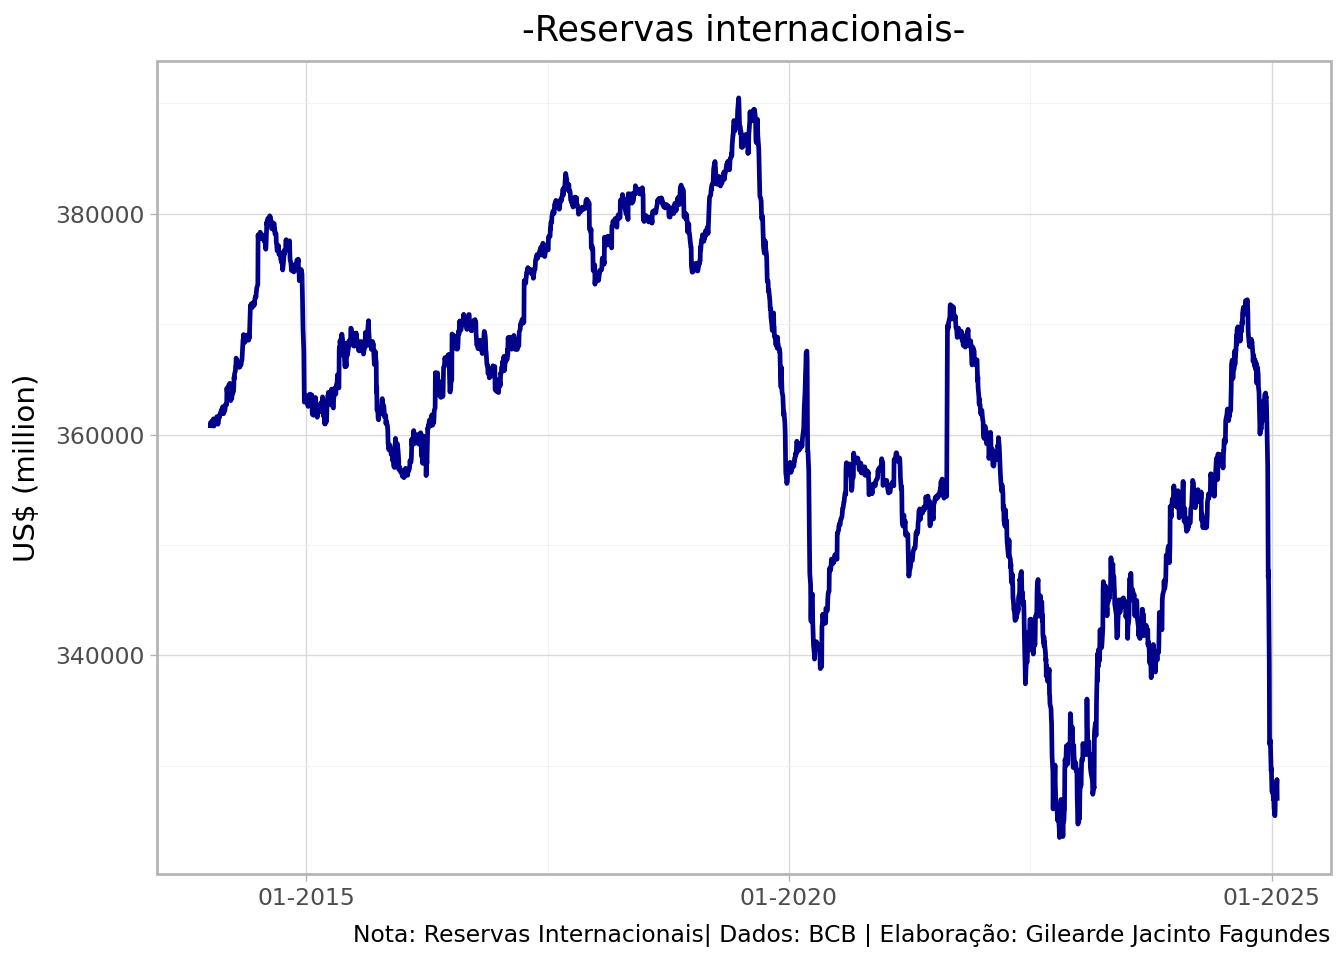
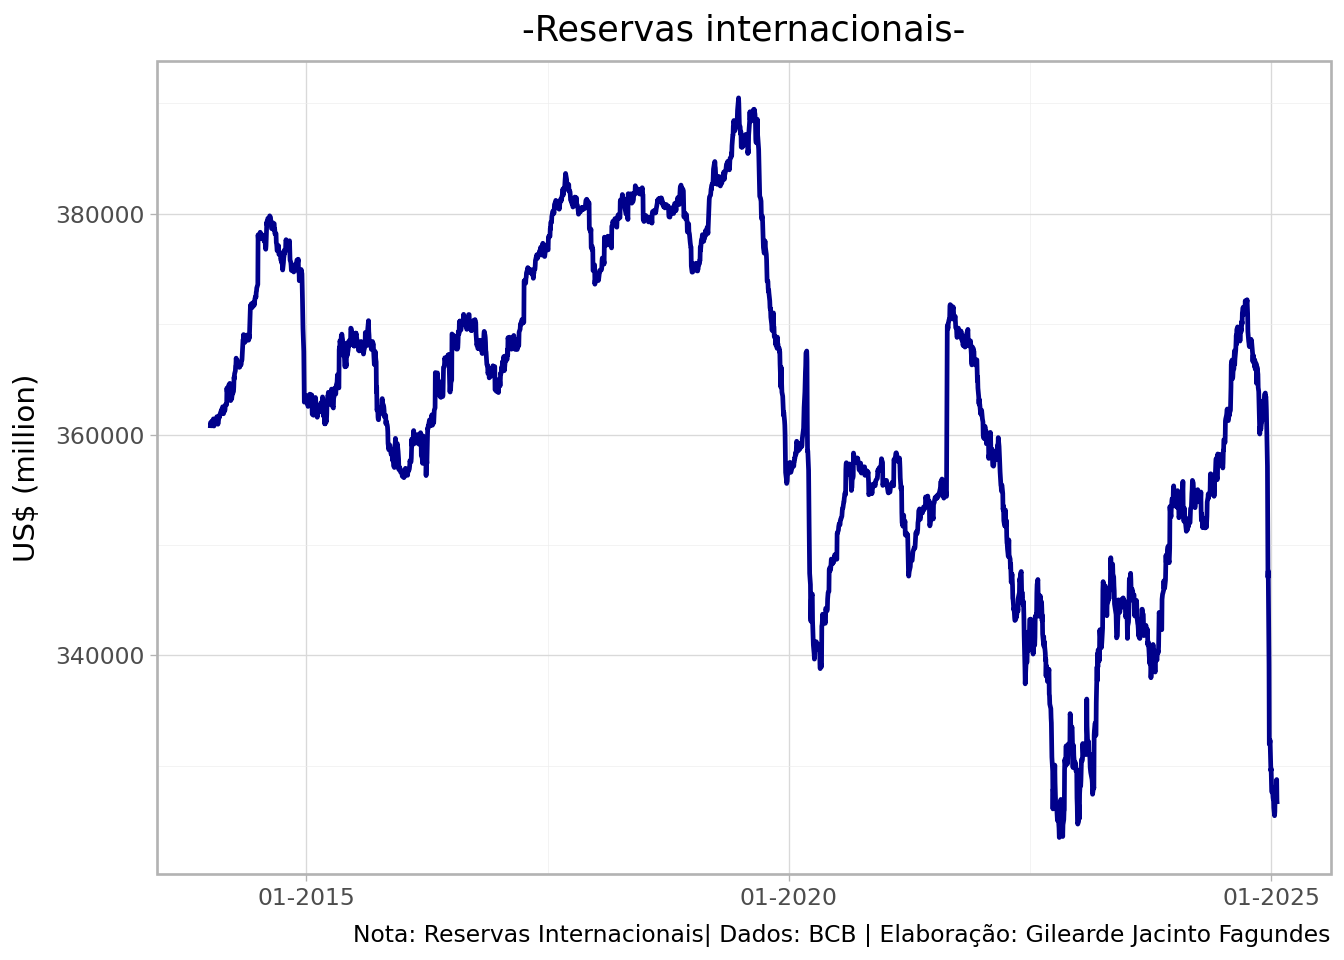
Atualização de relatorio e dashboard

diff --git a/relatorio/relatorio.html b/relatorio/relatorio.html
@@ -107,14 +107,14 @@ pre > code.sourceCode > span > a:first-child::before { text-decoration: underlin
 
 
 <p>Dados coletados da API do Banco Central do Brasil.</p>
-<div id="46a7c4b8" class="cell" data-execution_count="1">
+<div id="c3078685" class="cell" data-execution_count="1">
 <div class="sourceCode cell-code" id="cb1"><pre class="sourceCode python code-with-copy"><code class="sourceCode python"><span id="cb1-1"><a href="#cb1-1" aria-hidden="true" tabindex="-1"></a><span class="co"># Import Librarys</span></span>
 <span id="cb1-2"><a href="#cb1-2" aria-hidden="true" tabindex="-1"></a><span class="im">from</span> bcb <span class="im">import</span> sgs</span>
 <span id="cb1-3"><a href="#cb1-3" aria-hidden="true" tabindex="-1"></a><span class="im">import</span> pandas <span class="im">as</span> pd</span>
 <span id="cb1-4"><a href="#cb1-4" aria-hidden="true" tabindex="-1"></a><span class="im">import</span> plotnine <span class="im">as</span> p9</span></code><button title="Copy to Clipboard" class="code-copy-button"><i class="bi"></i></button></pre></div>
 </div>
 <p>Utilização da library SGS/BCB:</p>
-<div id="2ee550ff" class="cell" data-execution_count="2">
+<div id="dc96f654" class="cell" data-execution_count="2">
 <div class="sourceCode cell-code" id="cb2"><pre class="sourceCode python code-with-copy"><code class="sourceCode python"><span id="cb2-1"><a href="#cb2-1" aria-hidden="true" tabindex="-1"></a><span class="co"># Collect data</span></span>
 <span id="cb2-2"><a href="#cb2-2" aria-hidden="true" tabindex="-1"></a>dados <span class="op">=</span> sgs.get(</span>
 <span id="cb2-3"><a href="#cb2-3" aria-hidden="true" tabindex="-1"></a>    codes<span class="op">=</span>{<span class="st">"reserva"</span>: <span class="dv">13621</span>},</span>
@@ -123,7 +123,7 @@ pre > code.sourceCode > span > a:first-child::before { text-decoration: underlin
 <span id="cb2-6"><a href="#cb2-6" aria-hidden="true" tabindex="-1"></a>)</span></code><button title="Copy to Clipboard" class="code-copy-button"><i class="bi"></i></button></pre></div>
 </div>
 <p>Os dados brutos obtidos no SGS/BCB são exibidos abaixo:</p>
-<div id="357fccf9" class="cell" data-execution_count="3">
+<div id="f56e10f3" class="cell" data-execution_count="3">
 <div class="sourceCode cell-code" id="cb3"><pre class="sourceCode python code-with-copy"><code class="sourceCode python"><span id="cb3-1"><a href="#cb3-1" aria-hidden="true" tabindex="-1"></a>dados</span></code><button title="Copy to Clipboard" class="code-copy-button"><i class="bi"></i></button></pre></div>
 <div class="cell-output cell-output-display" data-execution_count="3">
 <div>
@@ -166,37 +166,37 @@ pre > code.sourceCode > span > a:first-child::before { text-decoration: underlin
 <td>...</td>
 </tr>
 <tr class="odd">
-<td data-quarto-table-cell-role="th">2025-01-16</td>
-<td>327911</td>
-</tr>
-<tr class="even">
 <td data-quarto-table-cell-role="th">2025-01-17</td>
 <td>327915</td>
 </tr>
-<tr class="odd">
+<tr class="even">
 <td data-quarto-table-cell-role="th">2025-01-20</td>
 <td>328276</td>
 </tr>
-<tr class="even">
+<tr class="odd">
 <td data-quarto-table-cell-role="th">2025-01-21</td>
 <td>328740</td>
 </tr>
-<tr class="odd">
+<tr class="even">
 <td data-quarto-table-cell-role="th">2025-01-22</td>
 <td>326829</td>
+</tr>
+<tr class="odd">
+<td data-quarto-table-cell-role="th">2025-01-23</td>
+<td>326517</td>
 </tr>
 </tbody>
 </table>
 
-<p>2776 rows × 1 columns</p>
+<p>2777 rows × 1 columns</p>
 </div>
 </div>
 </div>
 <p>Valores e datas da maxima e minima das Reservas Internacionais Totais:</p>
-<div id="686a9d5f" class="cell" data-execution_count="4">
+<div id="745687b6" class="cell" data-execution_count="4">
 <div class="sourceCode cell-code" id="cb4"><pre class="sourceCode python code-with-copy"><code class="sourceCode python"><span id="cb4-1"><a href="#cb4-1" aria-hidden="true" tabindex="-1"></a>dados <span class="op">=</span> dados.assign(data <span class="op">=</span> dados.index)</span></code><button title="Copy to Clipboard" class="code-copy-button"><i class="bi"></i></button></pre></div>
 </div>
-<div id="473a454c" class="cell" data-execution_count="5">
+<div id="d451ccd7" class="cell" data-execution_count="5">
 <div class="sourceCode cell-code" id="cb5"><pre class="sourceCode python code-with-copy"><code class="sourceCode python"><span id="cb5-1"><a href="#cb5-1" aria-hidden="true" tabindex="-1"></a>menor_valor <span class="op">=</span> dados.reserva.<span class="bu">min</span>() </span>
 <span id="cb5-2"><a href="#cb5-2" aria-hidden="true" tabindex="-1"></a>data_menor_valor <span class="op">=</span> dados.reserva.idxmin().date()</span>
 <span id="cb5-3"><a href="#cb5-3" aria-hidden="true" tabindex="-1"></a>maior_valor<span class="op">=</span>dados.reserva.<span class="bu">max</span>()</span>
@@ -208,7 +208,7 @@ pre > code.sourceCode > span > a:first-child::before { text-decoration: underlin
 </div>
 </div>
 <p>Gráfico de linha com a série das Reservas Internacionais Totais:</p>
-<div id="4e17482f" class="cell" data-execution_count="6">
+<div id="869af15a" class="cell" data-execution_count="6">
 <div class="sourceCode cell-code" id="cb7"><pre class="sourceCode python code-with-copy"><code class="sourceCode python"><span id="cb7-1"><a href="#cb7-1" aria-hidden="true" tabindex="-1"></a><span class="co"># Line Graph</span></span>
 <span id="cb7-2"><a href="#cb7-2" aria-hidden="true" tabindex="-1"></a>chart<span class="op">=</span>p9.ggplot(data <span class="op">=</span> dados) <span class="op">+\</span></span>
 <span id="cb7-3"><a href="#cb7-3" aria-hidden="true" tabindex="-1"></a>  p9.aes(x <span class="op">=</span> <span class="st">"data"</span>, y <span class="op">=</span> <span class="st">"reserva"</span>) <span class="op">+\</span></span>
@@ -222,7 +222,7 @@ pre > code.sourceCode > span > a:first-child::before { text-decoration: underlin
 <span id="cb7-11"><a href="#cb7-11" aria-hidden="true" tabindex="-1"></a>    ) <span class="op">+\</span></span>
 <span id="cb7-12"><a href="#cb7-12" aria-hidden="true" tabindex="-1"></a>  p9.theme_light()</span></code><button title="Copy to Clipboard" class="code-copy-button"><i class="bi"></i></button></pre></div>
 </div>
-<div id="c5865153" class="cell" data-execution_count="7">
+<div id="8f4e4a9a" class="cell" data-execution_count="7">
 <div class="sourceCode cell-code" id="cb8"><pre class="sourceCode python code-with-copy"><code class="sourceCode python"><span id="cb8-1"><a href="#cb8-1" aria-hidden="true" tabindex="-1"></a>chart</span></code><button title="Copy to Clipboard" class="code-copy-button"><i class="bi"></i></button></pre></div>
 <div class="cell-output cell-output-display">
 <div>
